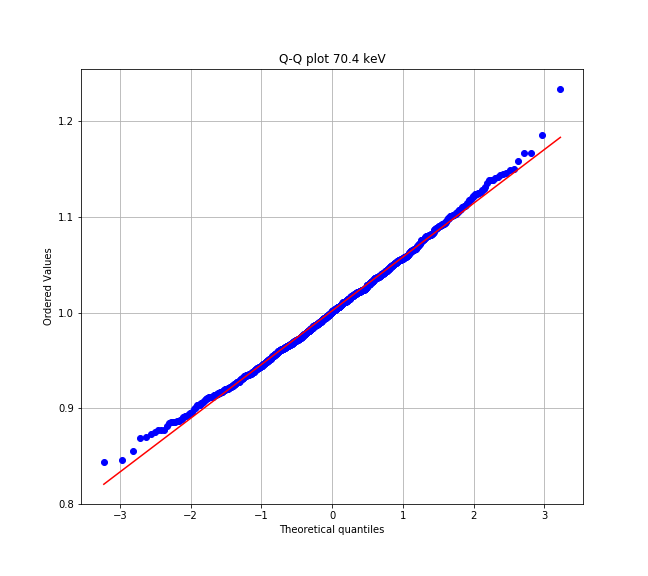
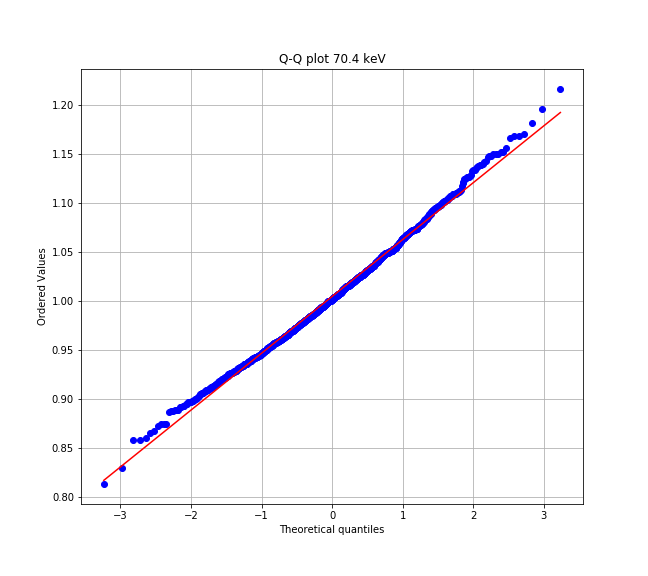
Fixed eps error

diff --git a/Mitch/Data_check_continuous.py b/Mitch/Data_check_continuous.py
@@ -4,7 +4,9 @@ import numpy as np
 import pandas as pd 
 from data_check import *
 from matplotlib.ticker import FuncFormatter
-from prob_dist import * 
+import sys
+sys.path.append('../python')
+import prob_dist as PD
 from Dist_check import * 
 from scipy import integrate 
 from Hist_plot import * 
@@ -18,6 +20,7 @@ def continuous_containment(df,s,band_type):
     V = 4
     eps = 0.0033
     expected = []
+    expected1= [] 
    # print("before sort Er_true is:",Er_true)
     recoil_type, upper,lower = band_type(df.E_true,s)
     
@@ -44,11 +47,9 @@ def continuous_containment(df,s,band_type):
   # u = np.linspace(0.1,0.5,1000) #for nuclear recoils. 
 
             
-    #for a,b,c,d,e,f in zip(Ep_mean,Eq_mean,Sp_mean,Sq_mean,z,y): 
+    
     for a,b,c,d,e,f,g in zip(Er_true,N_mean,Sp_mean,Sq_mean,SN,z,y):
         
-        
-        #g = integrate.quad(lambda x: dist_check(x,a,b,c,d,k),np.mean(e),np.mean(f) )
         g = integrate.quad(lambda x: dist_check_fano(x,a,b,c,d,e),np.mean(f),np.mean(g))
 
         H =g[0]*100
@@ -56,6 +57,13 @@ def continuous_containment(df,s,band_type):
         expected.append(H)
 
 
-    print(a,b,c,d,e,f)
+    for a,b,c,d,e,f in zip(Ep_mean,Eq_mean,Sp_mean,Sq_mean,z,y):
+      f = integrate.quad(lambda x: dist_check(x,a,b,c,d,k),np.mean(e),np.mean(f))
 
-    return expected, Er_true , y,z
+      h = f[0]*100
+
+      expected1.append(h)
+
+      
+
+    return expected, expected1, Er_true , y,z

diff --git a/Mitch/data_sim.py b/Mitch/data_sim.py
@@ -1,8 +1,12 @@
 
 #%%
 get_ipython().run_line_magic('load_ext', 'autoreload')
-
 get_ipython().run_line_magic('autoreload', '2')
+import seaborn as sns 
+import matplotlib as mpl
+mpl.rcParams.update(_VSCode_defaultMatplotlib_Params)
+sns.set_style(rc = {'figure.facecolor':'white'})
+
 import numpy as np
 import matplotlib.pyplot as plt
 import resfuncRead as rfr
@@ -17,10 +21,13 @@ from Data_check_continuous import *
 
 
 
+
+
+
 #%%
 N = 10000
 s = 1
-fano = 0 # 'known' fano factor for electron recoils. 
+fano = 3 # 'known' fano factor for electron recoils. 
 
 bins = np.array([10,13.4,18.1,24.5,33.1,44.8,60.6,80.2,110])
 
@@ -35,10 +42,16 @@ df_count = Yield_Er(bins_cont,fano) #with fano
 
 
 #%%
-expected,Er_true,y,z = continuous_containment(df_count,s,band_er)
+expected,expected1,Er_true,y,z = continuous_containment(df_count,s,band_er)
 
 m = np.linspace(0,110,len(expected))
-plt.plot(bins_cont,expected,'.')
+
+#%%
+plt.figure()
+plt.figure(figsize=(8, 6))
+plt.plot(bins_cont,expected,'.',label = 'Dep')
+plt.plot(bins_cont,expected1,linestyle = '--',linewidth = '3',label = 'InDep')
+plt.legend()
 plt.show()
 
 #%%
@@ -58,12 +71,6 @@ cut_idx = 'E_true' # True energy
 
 df,bincenters = bin_check(df,1,band_er,bins,cut_idx,expected,Er_true,fano)#For electron Recoils with fano factor 
 
-
-#%%
-
-
-
-#%%
 
 
 

diff --git a/Mitch/bin_data_check.py b/Mitch/bin_data_check.py
@@ -4,9 +4,15 @@ import pandas as pd
 from data_check import *
 from matplotlib.ticker import FuncFormatter
 from prob_dist import * 
+
+import sys
+sys.path.append('../python')
+import prob_dist as PD
+
 from Dist_check import * 
 from scipy import integrate 
 from Hist_plot import * 
+from Stat_analysis import * 
 import pylab 
 import scipy.stats as stats
 
@@ -85,18 +91,8 @@ def bin_check(df,s,band_func,bins,cut_idx,expected,Er_true,fano):
             #prob = dist_check(u,Ep_mean,Eq_mean,Sp_mean,Sq_mean,k) #amy's defined PDF 
             prob = dist_check_fano(u,E_true,N_mean,Sp_mean,Sq_mean,SN)
             hist_plot(Yield,prob,u,bin_name,fano)  
-
-
-            plt.subplots(1,1,figsize=(9.0,8.0),sharex=True)
-            stats.probplot(Yield, dist="norm", plot=pylab)
-            pylab.title('Q-Q plot '+ str(bin_center)+' keV')
-            plt.grid(True)
-            plt.savefig('figures/Q-Q_plot '+str(bin_center)+' keV.png')
-            pylab.show()
-
-            print('skew is: ',stats.skew(Yield))
-            print('kurtosis is: ', stats.kurtosis(Yield,fisher=False))
             
+            stat_analysis(Yield,prob,bin_center)
         
             up,down,N = compare(Yield,upper_bound,lower_bound) # up and down are the number of data points OUTSIDE the bands. 
 

diff --git a/Mitch/Stat_analysis.py b/Mitch/Stat_analysis.py
@@ -1,0 +1,33 @@
+from scipy import stats
+import matplotlib.pyplot as plt
+import pylab
+import numpy as np 
+
+
+def stat_analysis(Yield,prob,bin_center):
+
+    plt.subplots(1,1,figsize=(9.0,8.0),sharex=True)
+    stats.probplot(Yield, dist="norm", plot=pylab)
+    pylab.title('Q-Q plot '+ str(bin_center)+' keV')
+    plt.grid(True)
+    plt.savefig('figures/Q-Q_plot '+str(bin_center)+' keV.png')
+    pylab.show()
+
+    G = stats.skew(Yield)
+    K = stats.kurtosis(Yield,fisher=False)
+    W = stats.shapiro(Yield)
+
+
+    percent_diff = abs(K-3)/(3)
+
+    #chisq = np.sum((Yield-prob)**2)/np.sqrt(len(Yield))
+
+    
+
+
+
+    print('skew is: ',G)
+    print('kurtosis is: ', K )
+    print('Shapero-Wilk results: ', W )
+    print('diff = ', percent_diff)
+    #print("chi-Squared = ", chisq)

diff --git a/Mitch/Dist_check.py b/Mitch/Dist_check.py
@@ -2,7 +2,9 @@ import numpy as np
 import matplotlib.pyplot as plt
 import resfuncRead as rfr
 from scipy.stats import gaussian_kde
-from prob_dist import * 
+import sys
+sys.path.append('../python')
+import prob_dist as PD
 
 
 def dist_check(Yield,EP,EQ,sigP,sigQ,k):
@@ -19,7 +21,7 @@ def dist_check(Yield,EP,EQ,sigP,sigQ,k):
     res_q = mu_q/sig_q
     r = sig_p/sig_q
 
-    prob = ratio_dist(Yield, res_p, res_q, r, k)
+    prob = PD.ratio_dist(Yield, res_p, res_q, r, k)
 
     return prob
 
@@ -34,6 +36,6 @@ def dist_check_fano(Yield,E,N_mean,Sp_mean,Sq_mean,SN):
     Sq = np.mean(Sq_mean)
     SN = np.mean(SN)
 
-    prob = ratio_dist_fano(Yield,Er,N_mean,Sp,Sq,SN,V/1000,0.003)
+    prob = PD.ratio_dist_fano(Yield,Er,N_mean,Sp,Sq,SN,V/1000,0.0033)
     
     return prob 

diff --git a/Mitch/ER_Yield.py b/Mitch/ER_Yield.py
@@ -57,8 +57,9 @@ def Yield_Er(Er_True,fano):
 
     Yield = Eq_smear/Er # "measured" Ionization Yield
 
+    Er_m = np.sort(Er)
 
 
-    df = pd.DataFrame({'EQ_smear':Eq_smear,'EP_smear':Ep_smear,'N_mean':N_mean,'sig_N':sigN,'E_true':Eer,'E_measured':Er,'Yield':Yield,'Ep_mean':E_p_mean,'Eq_mean':E_q_mean,'sigp_mean':sig_p_mean,'sigq_mean':sig_q_mean})
+    df = pd.DataFrame({'E_measured':Er_m,'EQ_smear':Eq_smear,'EP_smear':Ep_smear,'N_mean':N_mean,'sig_N':sigN,'E_true':Eer,'E_measured':Er,'Yield':Yield,'Ep_mean':E_p_mean,'Eq_mean':E_q_mean,'sigp_mean':sig_p_mean,'sigq_mean':sig_q_mean})
     
     return df

diff --git a/python/prob_dist.py b/python/prob_dist.py
@@ -33,6 +33,8 @@ def ratio_dist(z, res_p, res_q, r, k):
 def ratio_dist_fano(x, Er, meanN, sdP, sdQ, sdN, V,e):
 
 
+    
+    
     k = (sdP**2)*(sdQ**2)+(V**2)*(sdQ**2)*(sdN**2)+(e**2)*(sdN**2)*(sdP**2)
 
     A = ((((x*(V/e)+1)*sdQ)**2)+((x*sdP)**2)+((e*sdN)**2))/(2*k)
